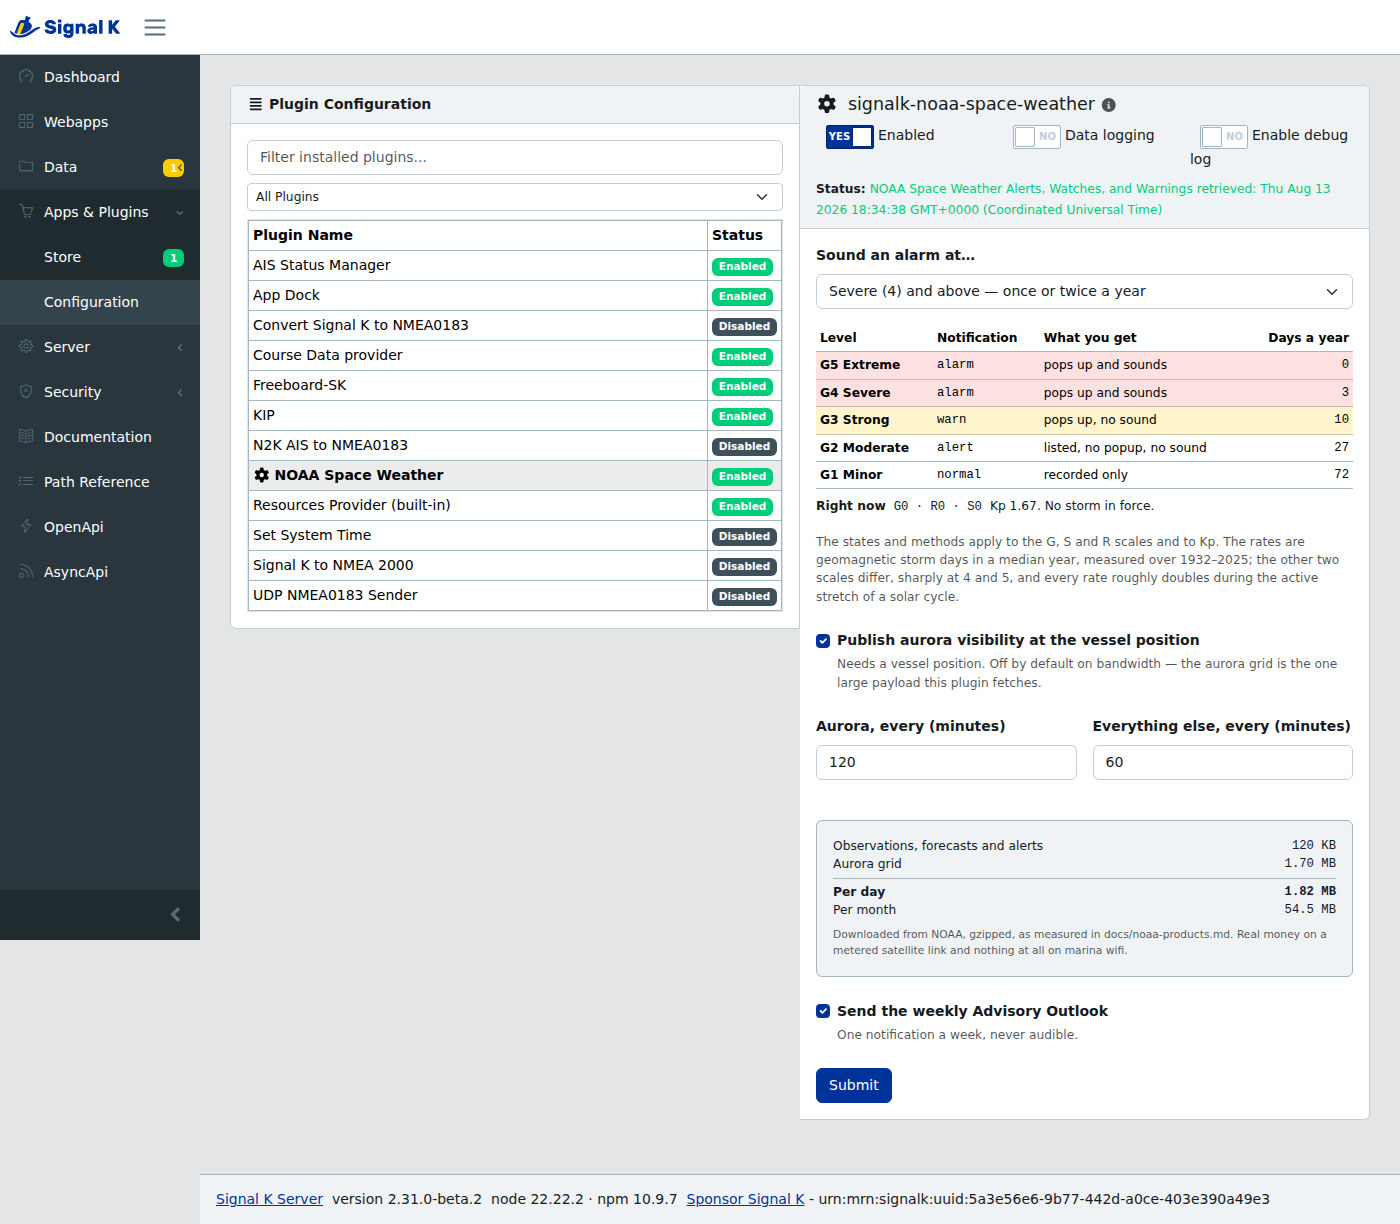
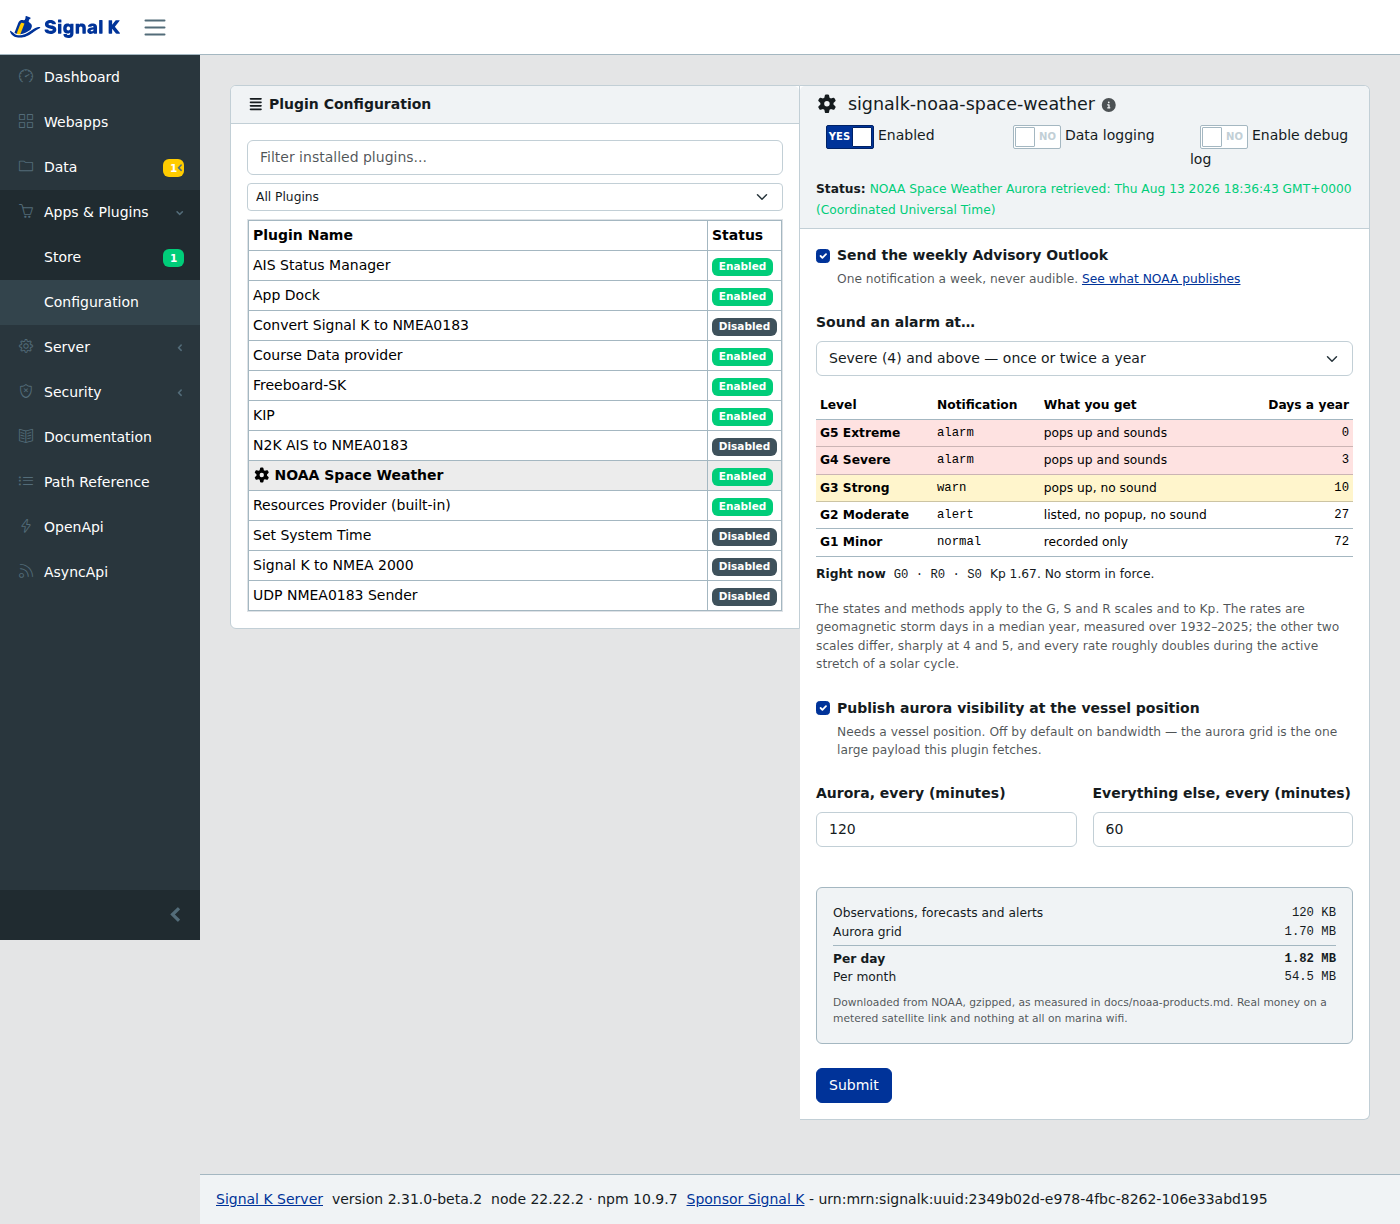
feat(config): lead with the advisory outlook, and link what it sends
It was last on the screen, under the bandwidth budget, which put the one
setting that needs no thought behind the two that do. It is now first.

The label named the bulletin without showing it, so the help text links
NOAA's own page for it -- a user deciding whether to receive something
weekly should be able to read one first.

Changed region(s): [[0.5836, 0.1242, 0.9829, 0.8693], [0.7064, 0.9624, 0.9214, 0.9935]]

diff --git a/public/remoteEntry.js b/public/remoteEntry.js
@@ -49,6 +49,10 @@ const STATUS_URL = `${API}/signalk-noaa-space-weather/status`
 // The two paths the plugin already publishes that say what the sky is doing.
 const SCALES_URL = `${API}/vessels/self/environment/noaa/swpc/scales/observations/latest`
 const KP_URL = `${API}/vessels/self/environment/noaa/swpc/kp`
+// The human-readable page behind the bulletin this setting forwards, so the
+// checkbox can show what it is offering rather than only naming it.
+const ADVISORY_OUTLOOK_URL =
+  'https://www.spaceweather.gov/products/space-weather-advisory-outlook'
 
 let React = null
 
@@ -372,6 +376,27 @@ function createPanel(React) {
             ' what is shown below, and the two will agree from then on.'
         ),
 
+      h(Check, {
+        id: 'noaa-advisory',
+        checked: settings.sendAdvisoryOutlook,
+        onChange: (value) => set('sendAdvisoryOutlook', value),
+        label: 'Send the weekly Advisory Outlook',
+        help: h(
+          'span',
+          null,
+          'One notification a week, never audible. ',
+          h(
+            'a',
+            {
+              href: ADVISORY_OUTLOOK_URL,
+              target: '_blank',
+              rel: 'noopener noreferrer'
+            },
+            'See what NOAA publishes'
+          )
+        )
+      }),
+
       h(
         Field,
         {
@@ -467,14 +492,6 @@ function createPanel(React) {
       ),
 
       h(Field, { children: h(Budget, { settings }) }),
-
-      h(Check, {
-        id: 'noaa-advisory',
-        checked: settings.sendAdvisoryOutlook,
-        onChange: (value) => set('sendAdvisoryOutlook', value),
-        label: 'Send the weekly Advisory Outlook',
-        help: 'One notification a week, never audible.'
-      }),
 
       h(
         'div',

diff --git a/CHANGELOG.md b/CHANGELOG.md
@@ -14,8 +14,11 @@ observe, so internal plumbing lands in a patch even when it adds something.
 - **The plugin's configuration screen is now the plugin's own, and it costs
   the bandwidth out for you.** Signal K lets a package replace the form the
   server generates from its JSON schema; this release takes that up. Every
-  setting is the same setting, in the same order, saving the same values — what
-  changes is that the screen can now compute.
+  setting is the same setting, saving the same values — what changes is that
+  the screen can now compute, and that it is laid out for the reading rather
+  than for the schema. The weekly Advisory Outlook leads, since it is the one
+  choice that needs no arithmetic, and its label links NOAA's own page so a
+  bulletin can be read before deciding to receive them.
 
   What it computes first is the download budget. Under the two interval fields
   is a running total: what the observations, forecasts and alerts cost per day,
@@ -52,10 +55,9 @@ observe, so internal plumbing lands in a patch even when it adds something.
   choice.** Under the ladder: the G, S and R levels observed now, the current
   Kp, which of them is worst, and the row that one is sitting on — "the worst
   in force is G2, which at this setting is `alert` — listed, no popup, no
-  sound" — plus
-  the highest Kp forecast for the next 24 hours and the storm level it would
-  reach. It moves with the dropdown too, so a level can be judged against a
-  real day rather than an abstraction.
+  sound" — plus the highest Kp forecast for the next 24 hours and the storm
+  level it would reach. It moves with the dropdown too, so a level can be
+  judged against a real day rather than an abstraction.
 
   It reads the paths the plugin already publishes and adds no fetching of its
   own. When nothing has been published it says nothing at all rather than
